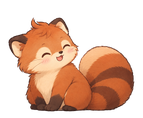
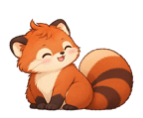
fix(assets): clean pet backgrounds and add transparent hero

diff --git a/assets/pet/rallo/README.md b/assets/pet/rallo/README.md
@@ -1,5 +1,29 @@
 # Rallo pet art — source of truth
 
+## Transparent asset cleanup — 2026-10-12
+
+The six full-size `rallo_*.png` expression sources now have transparent
+backgrounds. The `pet-*` pose sprites were refreshed to remove leftover
+white gaps and pale background fringes, keeping the existing filenames,
+143 × 118 / 286 × 236 canvases, and ground shadows. `rallo_hero.png` is the
+separate high-resolution transparent hero cutout (1458 × 1079).
+
+The cleanup used the image editor with each original as its edit target:
+remove cream/white backgrounds, preserve the pose and expression, retain
+cream fur and whiskers, keep translucent ground shadows, and refine the
+silhouette without a pale halo. Generated results can differ in fine painted
+details; the originals remain available for exact comparisons.
+
+Original PNGs are saved locally under `backup/2026-10-12-originals/`, with
+SHA-256 hashes in `sha256.json`. Backup image files are excluded from Git.
+Already-transparent eye overlays were retained. These changes apply to
+this asset directory; bundled copies in `apps/macos/Rallo/Resources/Sprites/`
+are separate and were not replaced.
+
+The production notes below describe the earlier import process. The cleaned
+sources already contain alpha: do not run the old RGB matting step over them,
+because it discards their transparency. Preserve alpha when resizing them.
+
 ## Provenance
 
 The full pose set was supplied by the user on 2026-09-30 as a
